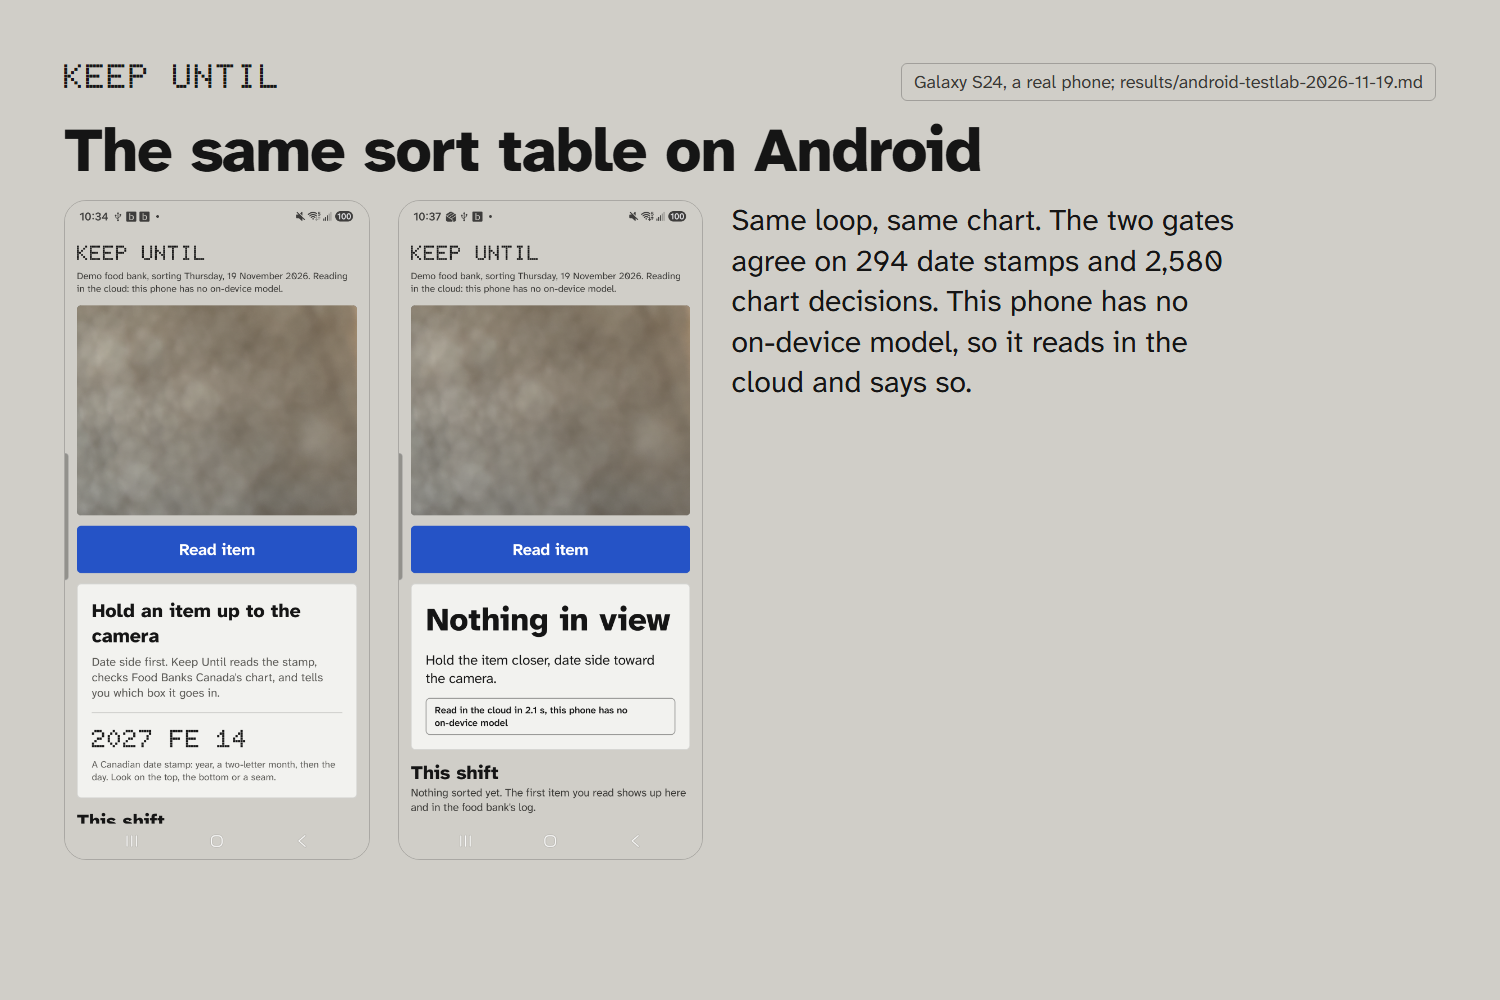
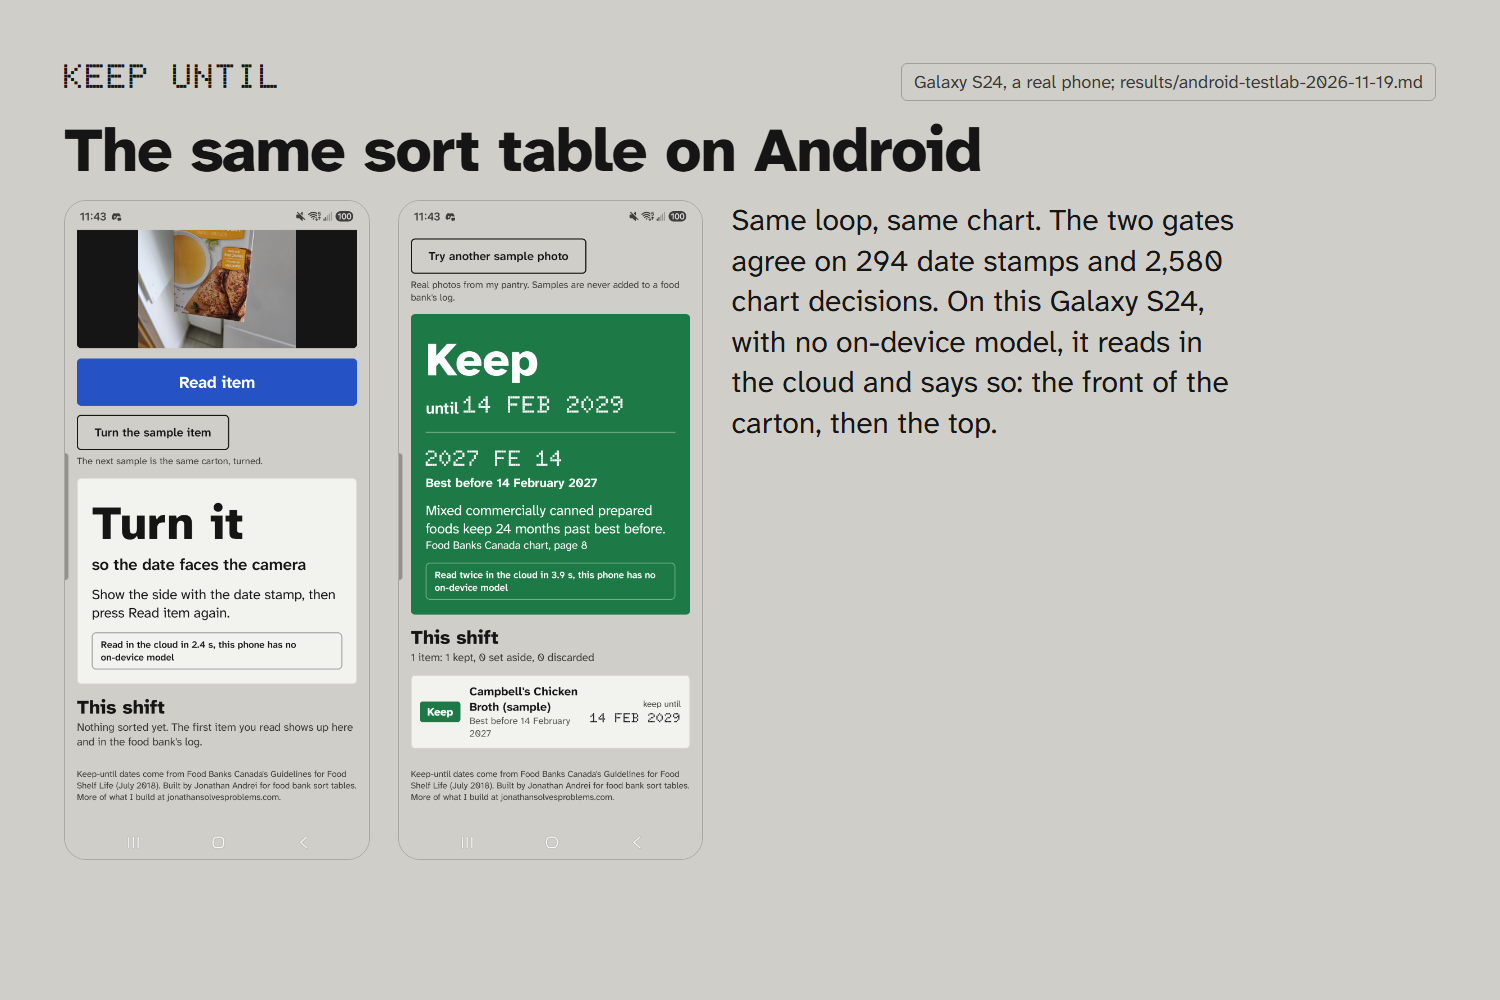
Android: sample photos (the same pantry carton, front then top, and a yogurt lid), never written to the food bank's log; the answer scrolls into view after each read; first-open status says what to press. Android slide from the real Galaxy S24

Changed region(s): [[0.0307, 0.217, 0.2453, 0.837], [0.276, 0.217, 0.46, 0.806], [0.4907, 0.279, 0.828, 0.434]]

diff --git a/android/app/src/main/java/com/keepuntil/sort/ui/SortViewModel.kt b/android/app/src/main/java/com/keepuntil/sort/ui/SortViewModel.kt
@@ -5,6 +5,10 @@ package com.keepuntil.sort.ui
 
 import android.app.Application
 import android.graphics.Bitmap
+import android.graphics.BitmapFactory
+import androidx.compose.ui.graphics.ImageBitmap
+import androidx.compose.ui.graphics.asImageBitmap
+import com.keepuntil.sort.scaledTo
 import androidx.lifecycle.AndroidViewModel
 import androidx.lifecycle.viewModelScope
 import com.keepuntil.sort.ai.OnDeviceState
@@ -25,13 +29,17 @@ data class LoggedRow(val name: String, val answer: Answer)
 
 data class SortState(
     /** One line at the top: the food bank, the day, and how items are being read. */
-    val status: String = "Getting ready",
+    val status: String = "Ready. Press Start shift to turn on the camera.",
     val started: Boolean = false,
     val reading: Boolean = false,
     val answer: Answer? = null,
     val readBy: String = "",
     val prompt: String = "",
     val log: List<LoggedRow> = emptyList(),
+    /** A sample photo being read, shown in the camera's place. */
+    val still: ImageBitmap? = null,
+    val sampleLabel: String = "Try a sample photo",
+    val sampleNote: String = "No item to hand? This reads a real photo from my pantry, the same way.",
 )
 
 class SortViewModel(app: Application) : AndroidViewModel(app) {
@@ -49,6 +57,18 @@ class SortViewModel(app: Application) : AndroidViewModel(app) {
     private var warmUp: Job? = null
 
     private fun setStatus(s: String) = _state.update { it.copy(status = s) }
+
+    // The first two are one item: a broth carton's front (name, no date), then its top (date, no
+    // name). The third is a yogurt lid.
+    private val samples = listOf("samples/carton-front.jpg", "samples/carton-top.jpg", "samples/yogurt-lid.jpg")
+    private var nextSample = 0
+
+    fun readSample() {
+        if (loop == null || _state.value.reading) return
+        val photo = getApplication<Application>().assets.open(samples[nextSample++ % samples.size]).use { BitmapFactory.decodeStream(it) }
+        _state.update { it.copy(still = photo.asImageBitmap()) }
+        readItem(photo.scaledTo(1024), photo.scaledTo(512), sample = true)
+    }
 
     fun startShift() {
         if (_state.value.started) return
@@ -83,11 +103,11 @@ class SortViewModel(app: Application) : AndroidViewModel(app) {
         return "${s.foodBankName}, sorting $day. $how"
     }
 
-    fun readItem(photo: Bitmap, small: Bitmap) {
+    fun readItem(photo: Bitmap, small: Bitmap, sample: Boolean = false) {
         val l = loop ?: return
         val s = settings ?: return
         if (_state.value.reading) return
-        _state.update { it.copy(reading = true, prompt = "") }
+        _state.update { it.copy(reading = true, prompt = "", still = if (sample) it.still else null) }
         viewModelScope.launch {
             try {
                 val previous = (pendingTurn as? Step.NeedDatePhoto)?.reads ?: emptyList()
@@ -97,11 +117,23 @@ class SortViewModel(app: Application) : AndroidViewModel(app) {
                 val phoneHasModel = readers?.onDevice?.ready == true
                 var log = _state.value.log
                 if (step is Step.Decided) {
-                    val shift = shiftId ?: backend.startShift(s, uid!!, readers?.onDevice?.status ?: "unknown").also { shiftId = it }
-                    backend.logItem(s, shift, uid!!, step)
-                    log = listOf(LoggedRow(itemName(step), answer)) + log
+                    // A sample is shown in this shift's list but never written to the food bank's log.
+                    if (!sample) {
+                        val shift = shiftId ?: backend.startShift(s, uid!!, readers?.onDevice?.status ?: "unknown").also { shiftId = it }
+                        backend.logItem(s, shift, uid!!, step)
+                    }
+                    log = listOf(LoggedRow(if (sample) "${itemName(step)} (sample)" else itemName(step), answer)) + log
                 }
-                _state.update { it.copy(answer = answer, readBy = readBy(step, phoneHasModel), log = log) }
+                val turnSample = sample && step is Step.NeedDatePhoto
+                _state.update {
+                    it.copy(
+                        answer = answer,
+                        readBy = readBy(step, phoneHasModel),
+                        log = log,
+                        sampleLabel = if (turnSample) "Turn the sample item" else if (sample) "Try another sample photo" else it.sampleLabel,
+                        sampleNote = if (turnSample) "The next sample is the same carton, turned." else if (sample) "Real photos from my pantry. Samples are never added to a food bank's log." else it.sampleNote,
+                    )
+                }
             } catch (e: Exception) {
                 _state.update { it.copy(prompt = readFailure(e)) }
             } finally {

diff --git a/android/app/src/main/java/com/keepuntil/sort/ui/SortScreen.kt b/android/app/src/main/java/com/keepuntil/sort/ui/SortScreen.kt
@@ -21,6 +21,8 @@ import androidx.compose.foundation.layout.safeDrawingPadding
 import androidx.compose.foundation.layout.width
 import androidx.compose.foundation.lazy.LazyColumn
 import androidx.compose.foundation.lazy.items
+import androidx.compose.foundation.lazy.rememberLazyListState
+import androidx.compose.runtime.LaunchedEffect
 import androidx.compose.foundation.shape.RoundedCornerShape
 import androidx.compose.material3.Button
 import androidx.compose.material3.ButtonDefaults
@@ -78,8 +80,15 @@ private fun fill(kind: Kind): Pair<Color, Color> = when (kind) {
 }
 
 @Composable
-fun SortScreen(state: SortState, camera: @Composable (Modifier) -> Unit, onStart: () -> Unit, onRead: () -> Unit) {
+fun SortScreen(state: SortState, camera: @Composable (Modifier) -> Unit, onStart: () -> Unit, onRead: () -> Unit, onSample: () -> Unit) {
+    // After each read the answer is brought into view, so the volunteer never scrolls with an
+    // item in their hand (the web does the same at phone width).
+    val list = rememberLazyListState()
+    LaunchedEffect(state.answer) {
+        if (state.answer != null) list.animateScrollToItem(if (state.started) 3 else 2)
+    }
     LazyColumn(
+        state = list,
         modifier = Modifier.fillMaxSize().background(Lid).safeDrawingPadding(),
         verticalArrangement = Arrangement.spacedBy(14.dp),
     ) {
@@ -97,6 +106,14 @@ fun SortScreen(state: SortState, camera: @Composable (Modifier) -> Unit, onStart
             ) {
                 if (state.started) {
                     camera(Modifier.fillMaxSize())
+                    state.still?.let {
+                        androidx.compose.foundation.Image(
+                            bitmap = it,
+                            contentDescription = "The sample photo being read",
+                            contentScale = androidx.compose.ui.layout.ContentScale.Fit,
+                            modifier = Modifier.fillMaxSize().background(Viewport),
+                        )
+                    }
                 } else {
                     Button(
                         onClick = onStart,
@@ -126,6 +143,17 @@ fun SortScreen(state: SortState, camera: @Composable (Modifier) -> Unit, onStart
                         Spacer(Modifier.height(10.dp))
                         Text(state.prompt, style = words(16, FontWeight.SemiBold, Ink2))
                     }
+                    Spacer(Modifier.height(12.dp))
+                    androidx.compose.material3.OutlinedButton(
+                        onClick = onSample,
+                        enabled = !state.reading,
+                        shape = RoundedCornerShape(6.dp),
+                        border = androidx.compose.foundation.BorderStroke(1.5.dp, Ink),
+                        colors = ButtonDefaults.outlinedButtonColors(contentColor = Ink),
+                        modifier = Modifier.height(48.dp),
+                    ) { Text(state.sampleLabel, style = words(16, FontWeight.SemiBold)) }
+                    Spacer(Modifier.height(6.dp))
+                    Text(state.sampleNote, style = words(13, color = Ink2))
                 }
             }
         }

diff --git a/android/app/src/main/java/com/keepuntil/sort/MainActivity.kt b/android/app/src/main/java/com/keepuntil/sort/MainActivity.kt
@@ -53,6 +53,7 @@ class MainActivity : ComponentActivity() {
                     else askCamera.launch(Manifest.permission.CAMERA)
                 },
                 onRead = ::capture,
+                onSample = vm::readSample,
             )
         }
     }

diff --git a/scripts/gallery/render.py b/scripts/gallery/render.py
@@ -127,8 +127,8 @@ SLIDES = [
         "name": "android",
         "headline": "The same sort table on Android",
         "badge": "Galaxy S24, a real phone; results/android-testlab-2026-11-19.md",
-        "body": f'<img class="phone" src="{img("android-s24-live.png")}"><img class="phone" src="{img("android-s24-read.png")}">'
-        f'<div class="note">Same loop, same chart. The two gates agree on {GATE["stamps"]} date stamps and {GATE["decisions"]} chart decisions. This phone has no on-device model, so it reads in the cloud and says so.</div>',
+        "body": f'<img class="phone" src="{img("android-s24-turn.png")}"><img class="phone" src="{img("android-s24-keep.png")}">'
+        f'<div class="note">Same loop, same chart. The two gates agree on {GATE["stamps"]} date stamps and {GATE["decisions"]} chart decisions. On this Galaxy S24, with no on-device model, it reads in the cloud and says so: the front of the carton, then the top.</div>',
         "caption": f"The Android app runs the same loop and chart, matching the web on {GATE['decisions']} decisions. On a phone without Nano it says it reads in the cloud.",
     },
 ]
